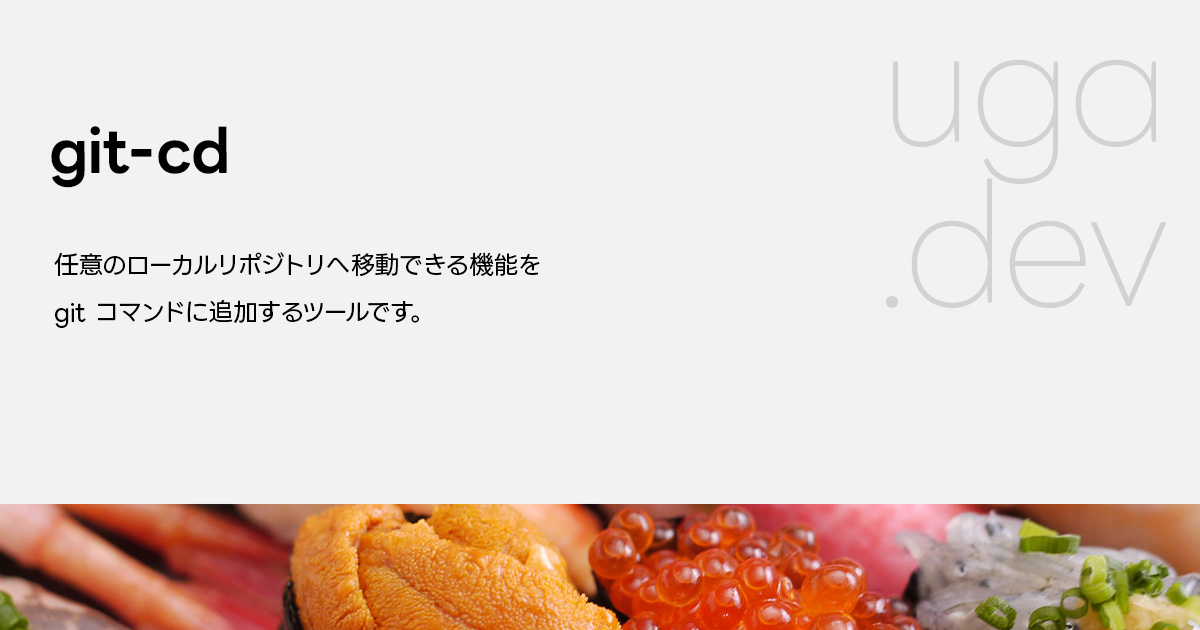
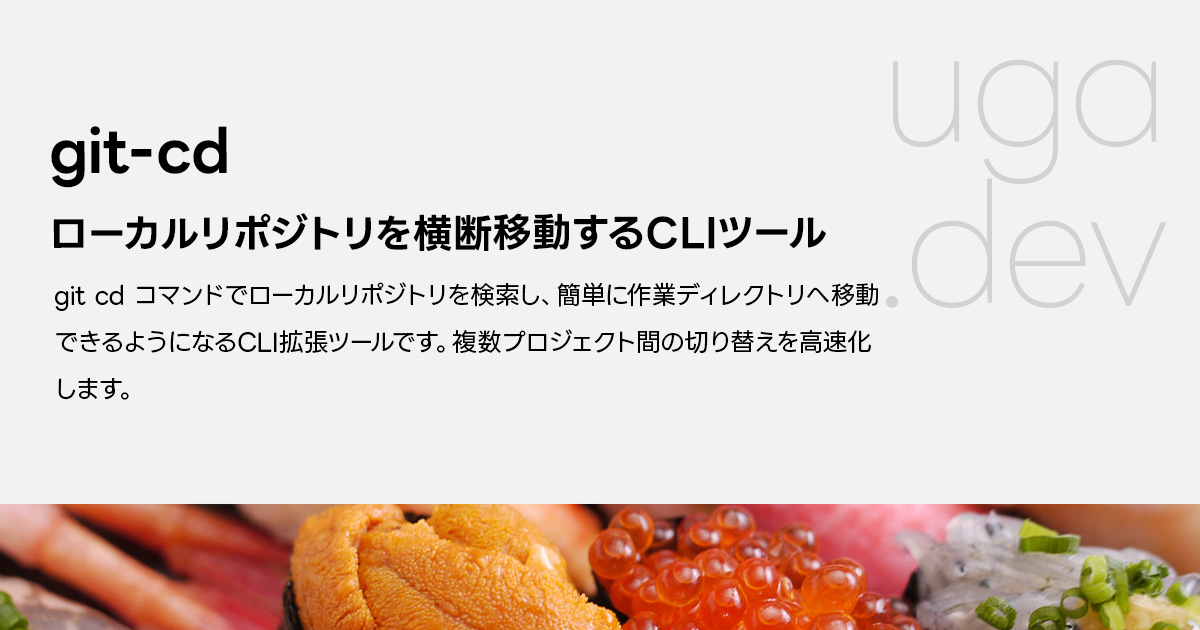
Improve git-cd page SEO and content
- Add "Why git cd?" section with problem description, comparison table, and target audience
- Update title/description/OGP metadata for both ja and en
- Rename --submodules option to --nested with updated description
- Add in-page anchor link from "Why" section to "Getting Started"
- Expand introText and fzfNote with additional context

Changed region(s): [[0.0308, 0.3317, 0.74, 0.573], [0.0308, 0.6032, 0.1233, 0.6333]]

diff --git a/src/components/Pages/ToolsGitCdPage/locales.tsx b/src/components/Pages/ToolsGitCdPage/locales.tsx
@@ -29,10 +29,31 @@ export const gitCdLocales = {
   ja: {
     introText: (
       <>
-        <code>git cd</code> コマンドでコンピューター
-        内のローカルリポジトリを検索し、選択したリポジトリのディレクトリに移動できます。
+        <code>git cd</code>{' '}
+        コマンドでコンピューター内のローカルリポジトリを検索し、選択したリポジトリのディレクトリに移動できます。複数プロジェクトを横断する開発者のための
+        CLI 拡張です。
       </>
     ),
+    whySection: 'なぜ git cd が必要か',
+    whyTexts: [
+      '複数のリポジトリを管理していると、cd コマンドでの移動はフルパスを覚えて入力する必要があり、tab 補完も深いネストや似た名前のリポジトリでは思い通りに機能しません。',
+      'git cd はローカルにあるすべてのリポジトリを自動で検索し、目的のリポジトリへ即座に移動できます。fzf がインストール済みであればインクリメンタルサーチが使え、未インストールでも番号選択で動作します。',
+    ],
+    comparisonSection: '従来の方法との比較',
+    comparisonMethodLabel: '方法',
+    comparisonNoteLabel: '特徴',
+    comparisonItems: [
+      { method: 'cd + tab 補完', note: 'リポジトリのフルパスを覚えていないと使いにくい' },
+      { method: 'find + cd', note: 'コマンドが長く、都度入力するのが煩雑' },
+      { method: 'fzf + find', note: 'カスタム設定が必要で、git との統合がない' },
+      { method: 'git cd（本ツール）', note: 'git サブコマンドとして統合済み、追加設定不要で即使える', highlight: true },
+    ],
+    targetSection: 'こんな方におすすめ',
+    targetItems: [
+      '複数のリポジトリを日常的に横断して開発している',
+      '複数の独立したリポジトリを管理している（モノレポの場合は --nested オプションで内部のリポジトリも検索対象にできる）',
+      'ターミナル中心の開発スタイルで、プロジェクト切り替えを効率化したい',
+    ],
     installSection: 'Getting Started',
     installDescription: 'git clone版と、クイックインストール版があります。',
     restartNotice: 'インストール後は、必ずターミナルを再起動してください。',
@@ -54,7 +75,10 @@ export const gitCdLocales = {
         label: 'オプション',
         features: [
           { cmd: '--depth <n>', desc: 'ディレクトリの探索深度を制限する（デフォルト: 5）' },
-          { cmd: '--submodules', desc: 'git サブモジュールも一覧に含める（デフォルトでは除外）' },
+          {
+            cmd: '--nested',
+            desc: 'git サブモジュール・モノレポ内のリポジトリなどのネストしたリポジトリも一覧に含める（デフォルトでは除外）',
+          },
           {
             cmd: '--cache',
             desc: '前回のキャッシュをそのまま使用して高速起動する',
@@ -66,7 +90,8 @@ export const gitCdLocales = {
     fzfNote: (
       <>
         <FzfExternalLink />
-        がインストール済みの場合はキーワードで絞り込みながら選択でき、未インストールの場合は番号付きリストから選択します。
+        （ファジーファインダー
+        CLI）がインストール済みの場合はキーワードで絞り込みながら選択でき、未インストールの場合は番号付きリストから選択します。
       </>
     ),
     platforms: {
@@ -106,9 +131,33 @@ export const gitCdLocales = {
     introText: (
       <>
         The <code>git cd</code> command searches local repositories on your computer and moves you to the selected
-        repository directory.
+        repository directory. A CLI extension for developers working across multiple projects.
       </>
     ),
+    whySection: 'Why git cd?',
+    whyTexts: [
+      'When managing multiple repositories, navigating with cd requires remembering and typing full paths. Tab completion also struggles with deeply nested directories or similarly-named projects.',
+      'git cd automatically scans all local repositories and lets you jump to any of them instantly. With fzf installed, you get incremental fuzzy search; without it, a numbered list is shown instead.',
+    ],
+    comparisonSection: 'How it compares',
+    comparisonMethodLabel: 'Method',
+    comparisonNoteLabel: 'Notes',
+    comparisonItems: [
+      { method: 'cd + tab completion', note: 'Requires knowing and typing the full repository path' },
+      { method: 'find + cd', note: 'Verbose command, tedious to repeat daily' },
+      { method: 'fzf + find', note: 'Needs custom setup and configuration, no git integration' },
+      {
+        method: 'git cd (this tool)',
+        note: 'Works as a git subcommand out of the box, no extra setup needed',
+        highlight: true,
+      },
+    ],
+    targetSection: "Who it's for",
+    targetItems: [
+      'Developers who work across multiple repositories daily',
+      'Those managing multiple independent repositories (monorepo users can include nested repos with --nested)',
+      'Terminal-first developers who want faster project switching',
+    ],
     installSection: 'Getting Started',
     installDescription: 'You can choose either the git clone version or the quick install version.',
     restartNotice: 'After installation, restart your terminal.',
@@ -129,7 +178,10 @@ export const gitCdLocales = {
         label: 'Options',
         features: [
           { cmd: '--depth <n>', desc: 'Limit directory traversal depth (default: 5)' },
-          { cmd: '--submodules', desc: 'Include git submodules in the list (excluded by default)' },
+          {
+            cmd: '--nested',
+            desc: 'Include nested repositories (git submodules, monorepo sub-packages, etc.) in the list (excluded by default)',
+          },
           {
             cmd: '--cache',
             desc: 'Use the cached list as-is for faster startup (skips the fresh search)',
@@ -140,8 +192,8 @@ export const gitCdLocales = {
     },
     fzfNote: (
       <>
-        If <FzfExternalLink /> is installed, you can filter and select repositories by typing keywords. Otherwise, a
-        numbered list is shown.
+        If <FzfExternalLink /> (a fuzzy finder CLI) is installed, you can filter and select repositories by typing
+        keywords. Otherwise, a numbered list is shown.
       </>
     ),
     platforms: {

diff --git a/src/components/Pages/ToolsGitCdPage/ToolsGitCdPage.tsx b/src/components/Pages/ToolsGitCdPage/ToolsGitCdPage.tsx
@@ -2,7 +2,7 @@ import { TweetLink } from '@/components/Clickable/TweetLink';
 import { CodeBlock } from '@/components/CodeBlock';
 import { Heading } from '@/components/Heading';
 import { NoteList } from '@/components/List';
-import { CommandTable } from '@/components/Table';
+import { CommandTable, Table } from '@/components/Table';
 import { CodeBlockWithPlatform } from '@/components/client/CodeBlockWithPlatform';
 import { PageTitle } from '@/components/structures/PageTitle';
 import { Lang } from '@/types/lang';
@@ -78,7 +78,61 @@ export const ToolsGitCdPage = ({ pageTitle, following, description, inLanguage =
         </p>
       </PageTitle>
 
-      <Heading level={2}>{t.installSection}</Heading>
+      <Heading level={2}>{t.whySection}</Heading>
+      <p className="-mt-3 mb-4 text-sm">
+        <Link href="#getting-started" className='after:content-["_↓"]'>
+          {t.installSection}
+        </Link>
+      </p>
+      <div className="mb-4 space-y-2 text-sm leading-relaxed">
+        {t.whyTexts.map((text) => (
+          <p key={text}>{text}</p>
+        ))}
+      </div>
+
+      <Heading level={3}>{t.comparisonSection}</Heading>
+      <div className="mb-8">
+        <Table>
+          <thead className="@w640:table-header-group border-primary block border-b bg-slate-50 dark:bg-slate-800/50">
+            <tr className="@w640:table-row block">
+              <th scope="col" className="@w640:table-cell block px-3 py-2 text-left font-medium">
+                {t.comparisonMethodLabel}
+              </th>
+              <th scope="col" className="@w640:table-cell block px-3 py-2 text-left font-medium">
+                {t.comparisonNoteLabel}
+              </th>
+            </tr>
+          </thead>
+          <tbody className="@w640:table-row-group @w640:[&>tr:not(:first-child)>*]:border-t @w640:[&>tr:not(:first-child)>*]:border-primary divide-primary block divide-y dark:divide-slate-600">
+            {t.comparisonItems.map(({ method, note, highlight }) => (
+              <tr key={method} className="@w640:table-row block">
+                <th
+                  scope="row"
+                  className={`@w640:table-cell @w640:py-2 block overflow-auto whitespace-nowrap px-3 pt-2 text-left align-middle ${highlight ? 'font-semibold' : 'font-normal'}`}
+                >
+                  {method}
+                </th>
+                <td
+                  className={`@w640:table-cell @w640:py-2 block px-3 pb-2 align-middle leading-relaxed ${highlight ? 'font-semibold' : ''}`}
+                >
+                  {note}
+                </td>
+              </tr>
+            ))}
+          </tbody>
+        </Table>
+      </div>
+
+      <Heading level={3}>{t.targetSection}</Heading>
+      <ul className="mb-8 list-disc space-y-1 pl-5 text-sm">
+        {t.targetItems.map((item) => (
+          <li key={item}>{item}</li>
+        ))}
+      </ul>
+
+      <Heading level={2} id="getting-started">
+        {t.installSection}
+      </Heading>
 
       <p className="mb-4 text-sm leading-relaxed">{t.installDescription}</p>
       <div className="space-y-4">

diff --git a/src/constants/seo.ts b/src/constants/seo.ts
@@ -420,12 +420,16 @@ export const SEO: Record<
   },
   '/tools/git-cd': {
     title: 'git-cd',
-    description: '任意のローカルリポジトリへ移動できる機能をgitコマンドに追加するツールです。',
+    afterSubTitle: 'ローカルリポジトリを横断移動するCLIツール',
+    description:
+      'git cd コマンドでローカルリポジトリを検索し、簡単に作業ディレクトリへ移動できるようになるCLI拡張ツールです。複数プロジェクト間の切り替えを高速化します。',
     languages: { ja: '/tools/git-cd', en: '/tools/git-cd/en' },
   },
   '/tools/git-cd/en': {
     title: 'git-cd',
-    description: 'A tool that adds the ability to jump to any local repository from the git command line.',
+    afterSubTitle: 'Jump across local repositories with a single command',
+    description:
+      'A CLI extension that lets you search local repositories and jump to any working directory with git cd. Speeds up switching between multiple projects.',
     languages: { ja: '/tools/git-cd', en: '/tools/git-cd/en' },
     locale: 'en_US',
   },